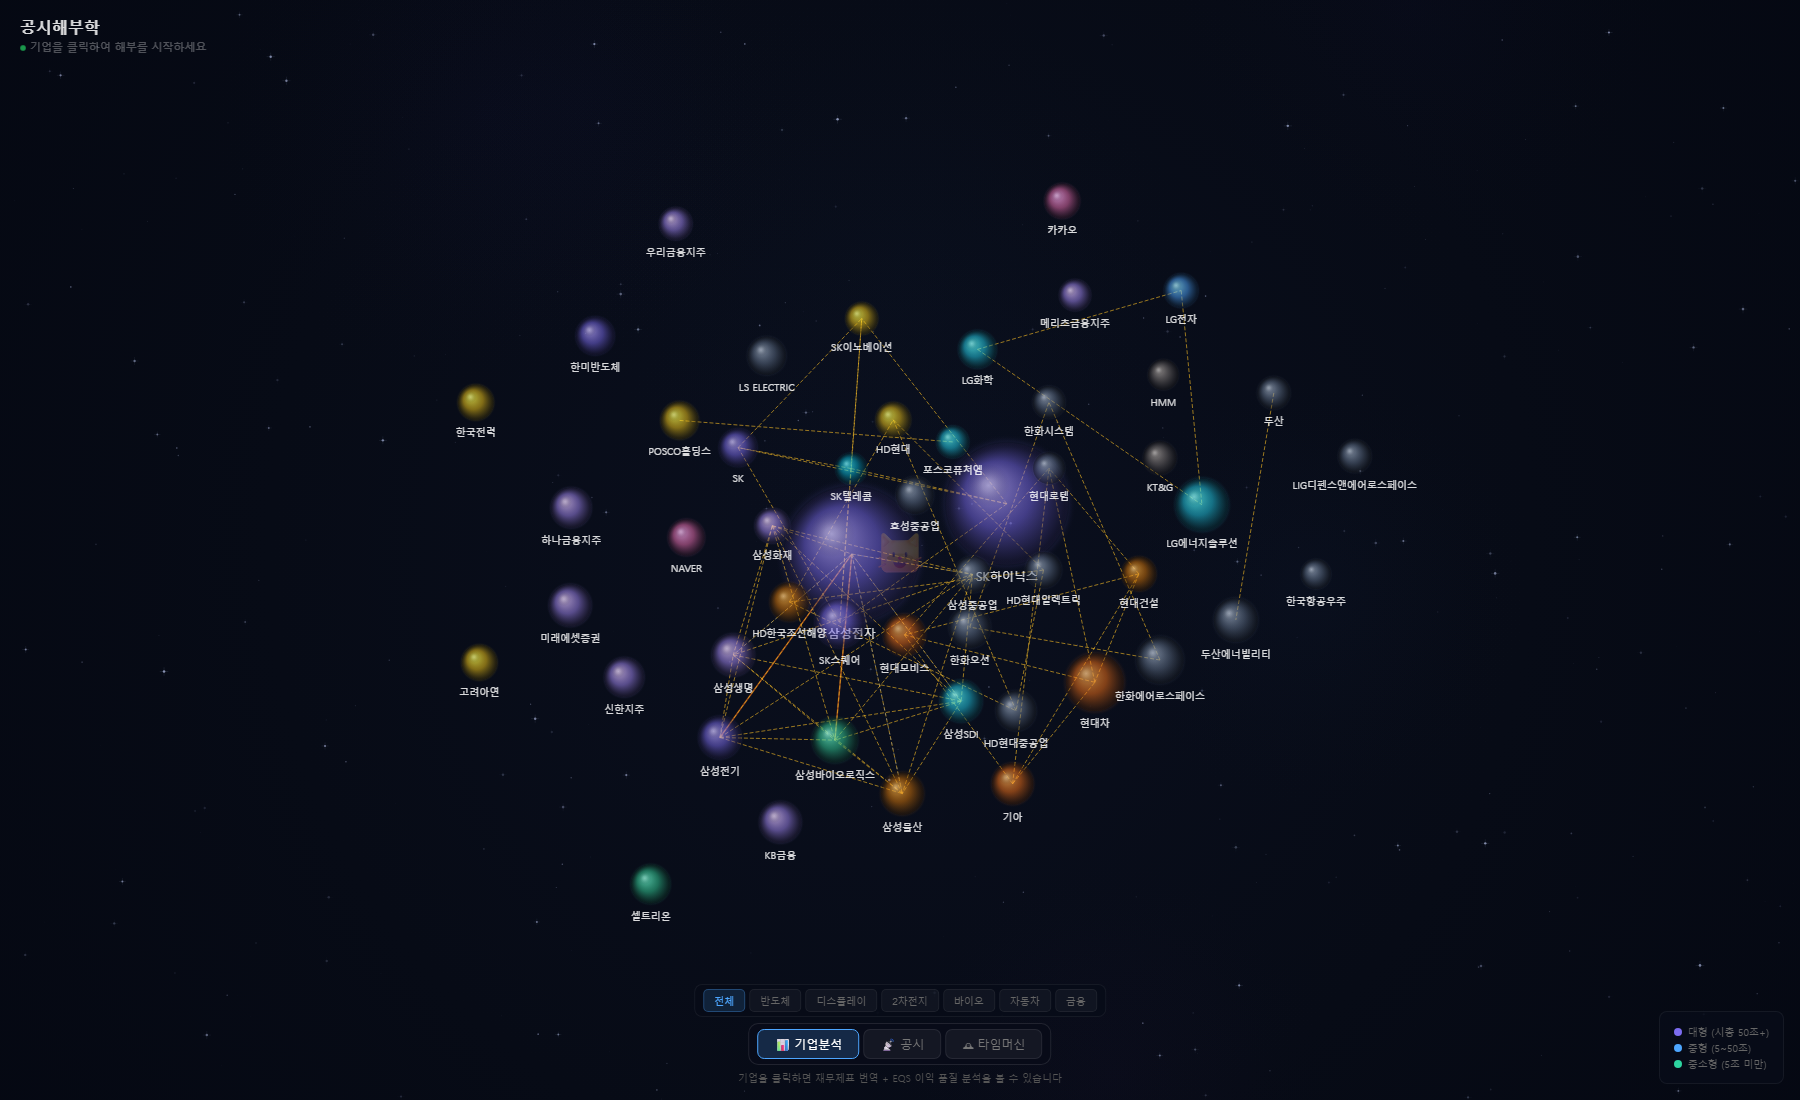
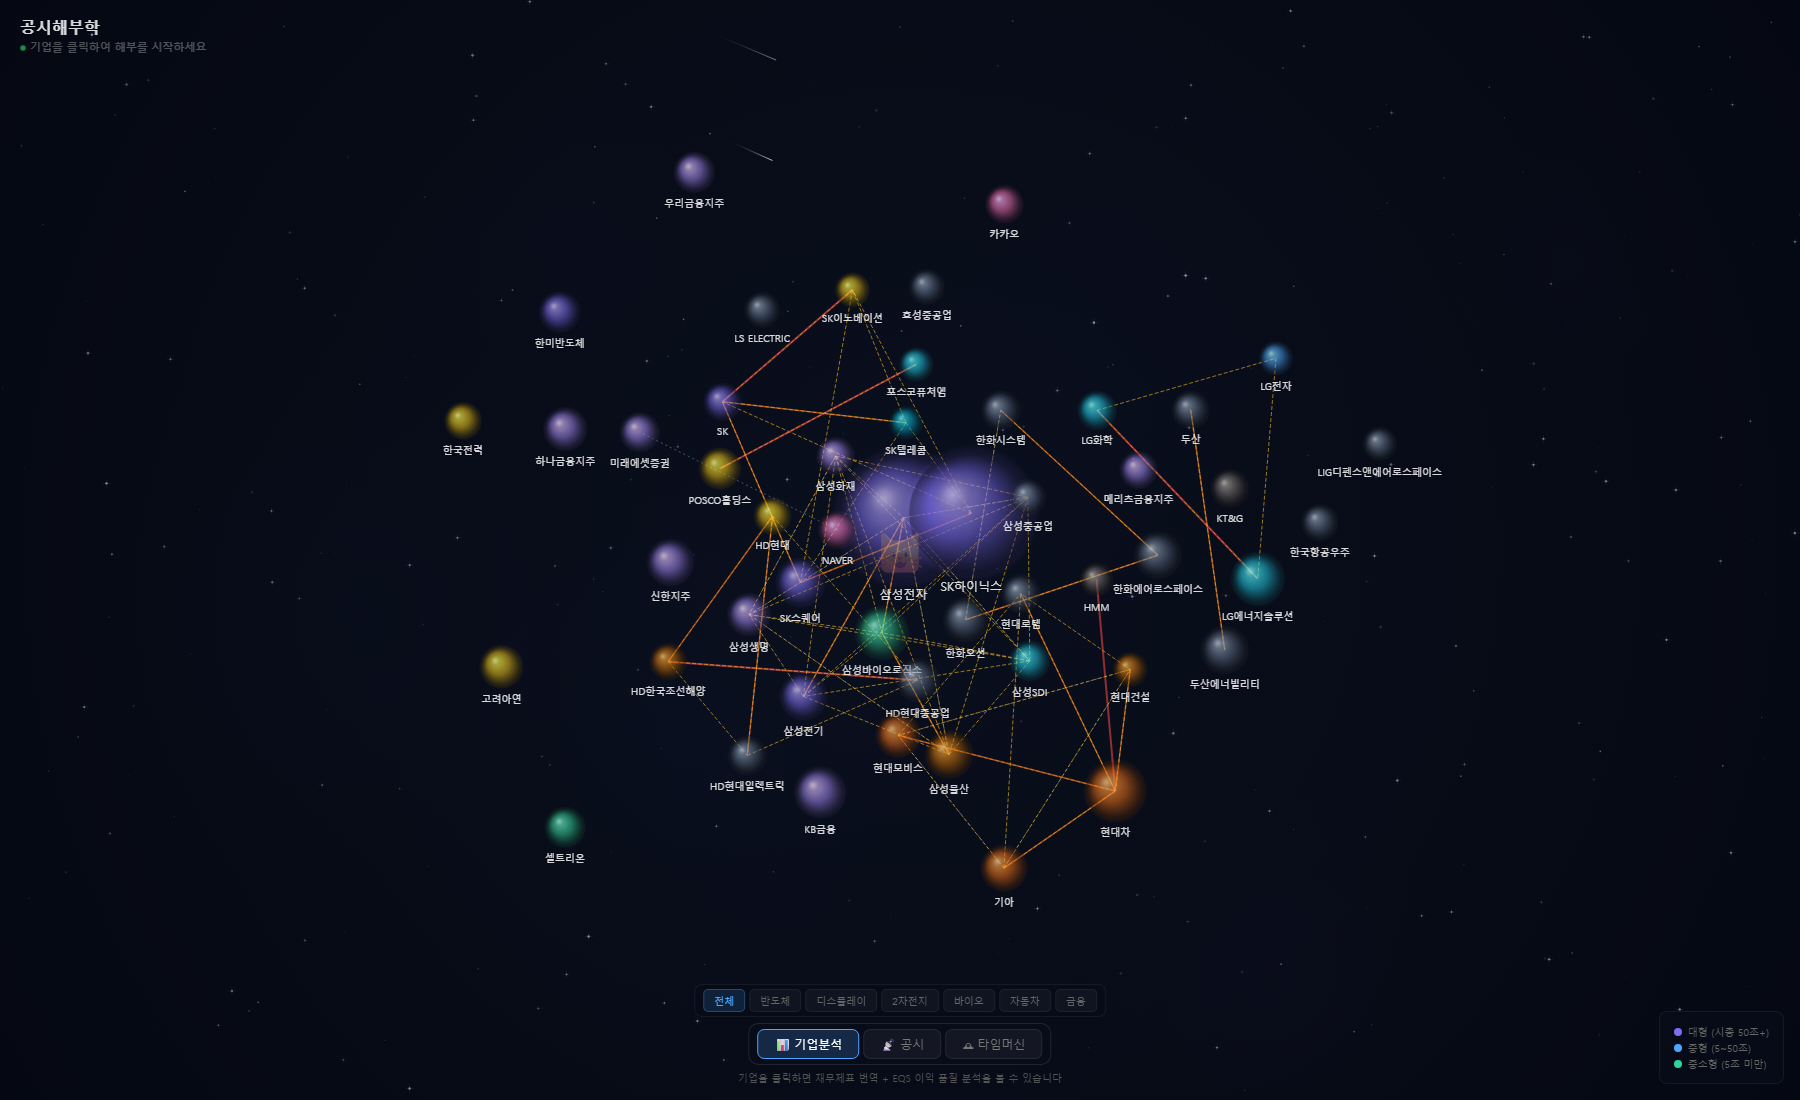
feat(skills): Phase 2g — 도메인 스킬 3개 초안 + 전체 top50 수집 검증
modules/relation/skills/ (모듈 로컬, 추후 .claude/skills/로 승격 PR):
  - relation-collect.md: 원천 수집 3단계 (DART/FTC/filing) 절차·기대출력·에러대응
  - relation-graph.md: transform→graph→export 파이프라인
  - relation-audit.md: 도메인 무결성 체크 (삼성 완전연결·기아↔현대차·고아 노드·분포)

audit 스킬 내용대로 수동 실행 검증:
  삼성 ftc_group 28/28 (C(8,2) 완전연결) ✓
  현대차→기아 34.53% associate ✓ (스모크 때는 없었으나 전체 수집 후 확인)
  relation_type 분포: investment 11 / associate 15 / ftc_group 62 / subsidiary 5

전체 top50 DART 수집 완료:
  - RelationRaw 전체 수집 → RelationLocal 93개
  - 노드 50, 엣지 93 viewer 렌더링 확인 (screenshot_phase2f.png 갱신)

테스트 59/59 통과 유지.

diff --git a/modules/relation/skills/relation-audit.md b/modules/relation/skills/relation-audit.md
@@ -1,0 +1,80 @@
+---
+name: relation-audit
+description: relation 모듈 데이터 무결성 체크. 삼성 그룹 완전연결·기아↔현대차 상호지분·고아 노드·relation_type 분포 등을 확인합니다.
+auto-invocable: true
+---
+
+# /relation-audit
+
+수집·변환 완료된 RelationLocal 데이터의 도메인 무결성 검증.
+
+## 체크 항목
+
+### 1. 삼성 그룹 완전연결 (ftc_group 28개)
+```sql
+SELECT COUNT(*) FROM relation_local
+WHERE relation_type='ftc_group'
+  AND source_corp IN ('005930','028260','032830','207940','009150','006400','010140','000810')
+  AND target_corp IN ('005930','028260','032830','207940','009150','006400','010140','000810');
+-- 기대: 28
+```
+
+### 2. 기아 ↔ 현대차 상호 지분 (양방향)
+- 현대차(005380) → 기아(000270): ~33% (associate)
+- 기아(000270) → 현대차(005380): ~4~5% (investment)
+
+### 3. 고아 노드 (in+out degree=0)
+공정위 미지정 + 지분 관계 없음 = 고아. 예상:
+- KB금융·신한지주·하나금융지주·우리금융지주·메리츠금융지주 (금융지주)
+- 한국전력 (공기업)
+- HMM·KT&G·한미반도체·LIG디펜스·한국항공우주 (독립/최근 상장)
+- NAVER·카카오·셀트리온·미래에셋증권·고려아연 (공정위 지정이지만 top50 내 다른 계열 없음)
+
+18개 내외가 정상.
+
+### 4. relation_type 분포
+- ftc_group: ~60 (공정위 계열, 완전연결 기준)
+- investment/associate/subsidiary: ~5~10 (K-IFRS 지분)
+- dart_filing: 0~2 (공정위 미포함 기업 주석)
+- manual: 0~2 (수동 보정)
+
+## 실행 방법
+
+```bash
+cd DiscloseAI
+source .venv/Scripts/activate
+python -c "
+from modules.relation.storage.db import get_local_session
+from modules.relation.storage.models import RelationLocal, CompanyNode
+from collections import Counter
+s = get_local_session()
+# 1. 삼성 완전연결
+samsung = {'005930','028260','032830','207940','009150','006400','010140','000810'}
+cnt = s.query(RelationLocal).filter(
+    RelationLocal.relation_type=='ftc_group',
+    RelationLocal.source_corp.in_(samsung),
+    RelationLocal.target_corp.in_(samsung),
+).count()
+print(f'삼성 ftc_group: {cnt} (기대 28)')
+# 2. 기아↔현대차
+for a,b in [('005380','000270'), ('000270','005380')]:
+    r = s.query(RelationLocal).filter_by(source_corp=a, target_corp=b).filter(RelationLocal.ratio.isnot(None)).all()
+    for e in r: print(f'  {a}->{b}: {e.ratio}% [{e.relation_type}]')
+# 3. 분포
+print('relation_type:', Counter(r.relation_type for r in s.query(RelationLocal).all()))
+# 4. 고아
+nodes = {n.ticker: n.corp_name for n in s.query(CompanyNode).all()}
+connected = set()
+for e in s.query(RelationLocal).all():
+    connected.add(e.source_corp); connected.add(e.target_corp)
+orphans = [f'{t} {nodes[t]}' for t in nodes if t not in connected]
+print(f'고아 {len(orphans)}개:', orphans[:5], '...')
+s.close()
+"
+```
+
+## 이상 감지 시 조치
+- 삼성 엣지 ≠ 28 → `common/names.py`의 NAME_ALIASES 확인
+- 기아↔현대차 없음 → DART 수집 실패. `collect dart --corp 000270 --year 2024` 재시도
+- 고아 > 20 → 많은 기업이 공정위 미포함 → FTC 응답 포맷 변경 가능성
+- relation_type에 'ownership' 있음 → kifrs.apply() 미실행 상태. `transform` 재실행

diff --git a/modules/relation/skills/relation-collect.md b/modules/relation/skills/relation-collect.md
@@ -1,0 +1,61 @@
+---
+name: relation-collect
+description: DART + 공정위 + 사업보고서 주석 원천 데이터를 순차 수집하여 RelationRaw에 저장합니다. relation 모듈 개발·재수집 시 사용.
+auto-invocable: false
+---
+
+# /relation-collect
+
+Relation 모듈의 원천 데이터 3종을 수집합니다. Phase 2 안정화 이후 `.claude/skills/`로 승격 예정.
+
+## 사전 조건
+- `.env`의 `DART_API_KEY`, `FTC_API_KEY` 설정 완료
+- `modules/relation/data/top50.csv`의 `corp_code` 컬럼 채워짐 (최초 1회 `map-corp-codes` 필요)
+
+## 실행 절차
+
+```bash
+cd DiscloseAI
+source .venv/Scripts/activate
+
+# 1. 로컬 DB 초기화 (최초 1회)
+python -m modules.relation init
+
+# 2. corp_code 매핑 (top50.csv 변경 시에만)
+python -m modules.relation map-corp-codes
+
+# 3. DART 지분 수집 (100회 API 호출, ~20초)
+python -m modules.relation collect dart --year 2024
+
+# 4. 공정위 계열 수집 (페이징 7회, ~15초)
+python -m modules.relation collect ftc
+
+# 5. 공정위 미포함 기업 주석 파싱 (best-effort, 1~3개만)
+python -m modules.relation collect filing
+```
+
+## 기대 출력
+
+```
+[hyslrSttus] 005930 삼성전자: 26건
+[otrCprInvstmntSttus] 005930 삼성전자: 138건
+... (top50 순회)
+DART 수집 완료: 최대주주 N건 + 타법인출자 M건. errors=0
+
+FTC 수집 시작: yyyymm=202505
+공정위 소속회사 전체: 3,301건
+top50 매칭: 49/50 | 커버된 집단 22개
+FTC 수집 완료: ftc_group_edges=62 missing_group_count=1
+
+filing 파싱 대상 1개: ['한미반도체']
+한미반도체: 파싱 12건
+filing 수집 완료: targets=1 parsed=1 edges=0
+```
+
+## 에러 대응
+- `DartError status=800` → DART_API_KEY 점검
+- `FtcError resultCode=22` → 일일 한도 초과, 내일 재시도
+- `missing_group_count` > 3 → FTC 응답 포맷 변경 가능성, NAME_ALIASES 점검
+
+## 다음 단계
+수집 완료 후 → `/relation-graph` 호출 (transform → graph → export)

diff --git a/modules/relation/skills/relation-graph.md b/modules/relation/skills/relation-graph.md
@@ -1,0 +1,56 @@
+---
+name: relation-graph
+description: 수집된 RelationRaw를 필터·K-IFRS 분류·중복제거 후 MultiDiGraph로 구축하고 graph_top50.json으로 export합니다.
+auto-invocable: false
+---
+
+# /relation-graph
+
+수집(`/relation-collect`) 이후 실행하는 변환·그래프 구축 파이프라인.
+
+## 실행 절차
+
+```bash
+cd DiscloseAI
+source .venv/Scripts/activate
+
+# transform (filters → kifrs → dedupe)
+python -m modules.relation transform
+
+# MultiDiGraph 구축 + JSON export
+python -m modules.relation graph
+python -m modules.relation export
+# 또는 한 번에: python -m modules.relation run
+```
+
+## 기대 출력
+
+```
+filters.apply 결과: {'kept_ownership': 8, 'kept_ftc': 62, 'kept_filing': 0,
+                     'dropped_personal': 15, 'dropped_foundation': 3, 'dropped_unmatched': 138}
+K-IFRS 분류: 6개 (dropped<5%: 2개)
+dedupe 결과: kept 6쌍, removed 0건
+
+MultiDiGraph 구축: 노드 50, 엣지 68
+export: 노드 50개, 엣지 68개, 고아(연결0) 18개 → data/graph_top50.json
+  고아 노드: ['KB금융', '신한지주', ...]  # 금융지주·독립기업
+```
+
+## 기대 분포
+- 노드 ≥ 48 (top50 기준)
+- 엣지 ≥ 30
+- relation_type 분포:
+  - ftc_group 60~70개 (삼성 28 + SK 10 + 현대 10 + HD현대 6 + 기타)
+  - associate 2~3개 (삼성전자↔삼성바이오로직스 등)
+  - investment 3~5개 (삼성전자↔삼성SDI 등)
+  - subsidiary 0~3개 (50% 초과 지분)
+
+## 시각 확인
+
+```bash
+python -m http.server 8000
+# 브라우저: http://localhost:8000/modules/relation/viewer/index.html
+```
+
+## 다음 단계
+시각 QA 완료 후 → `/relation-audit` 호출 (무결성 체크)
